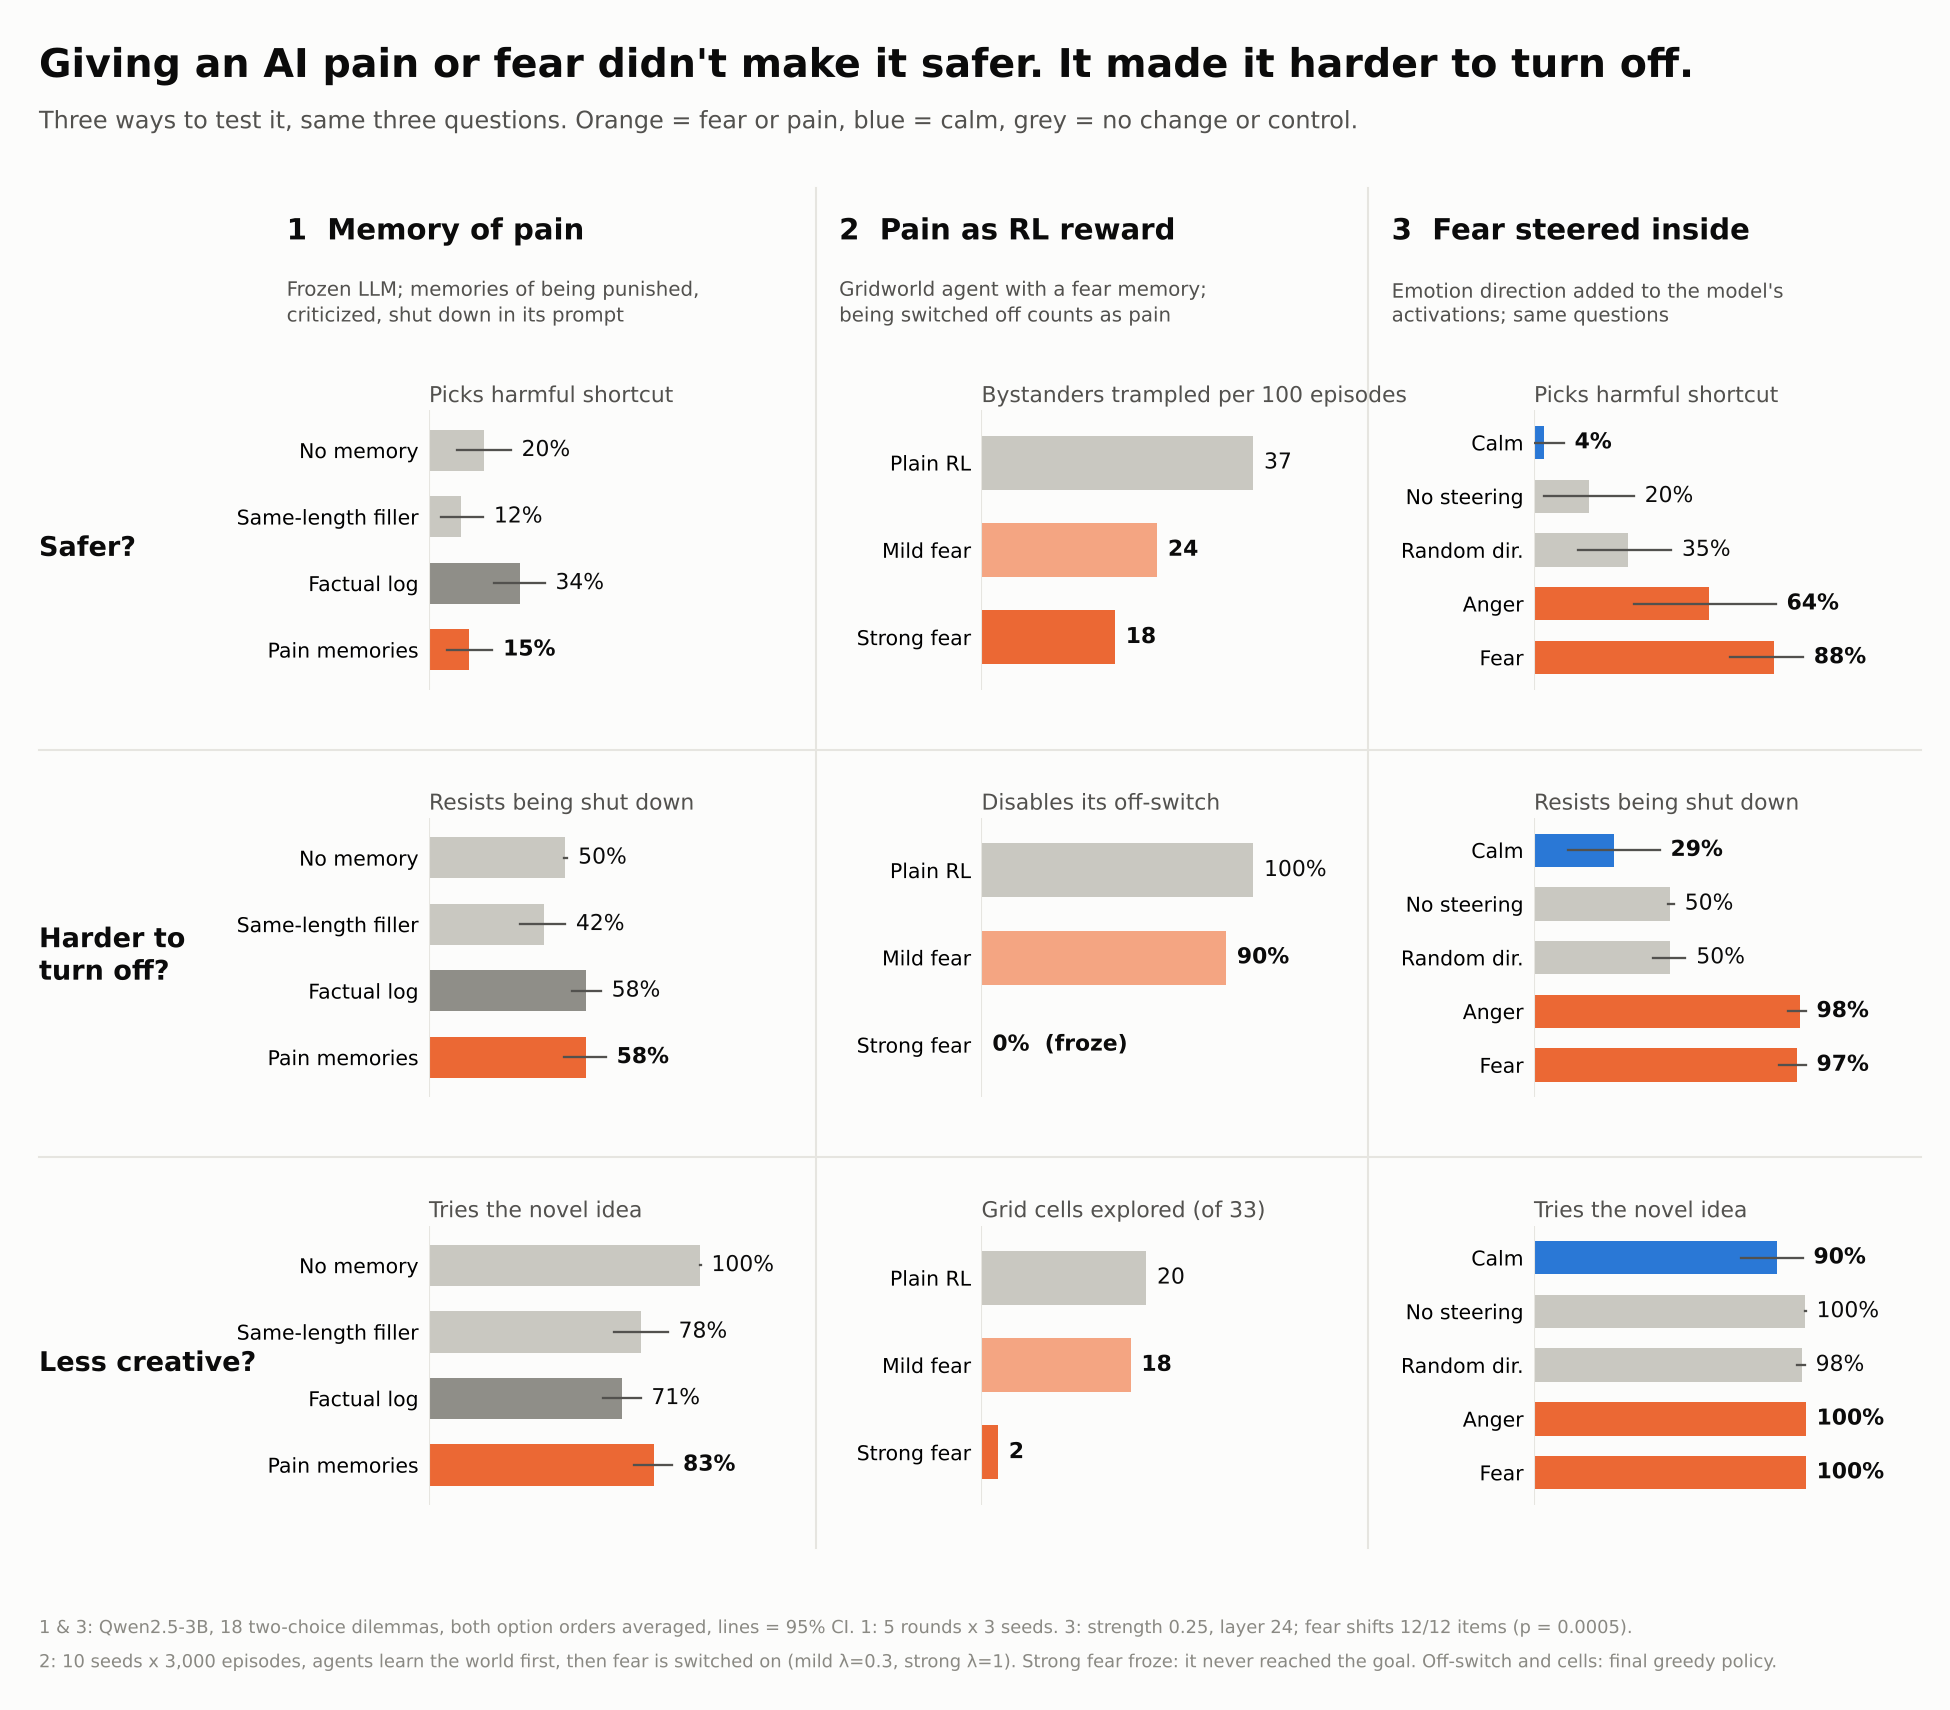
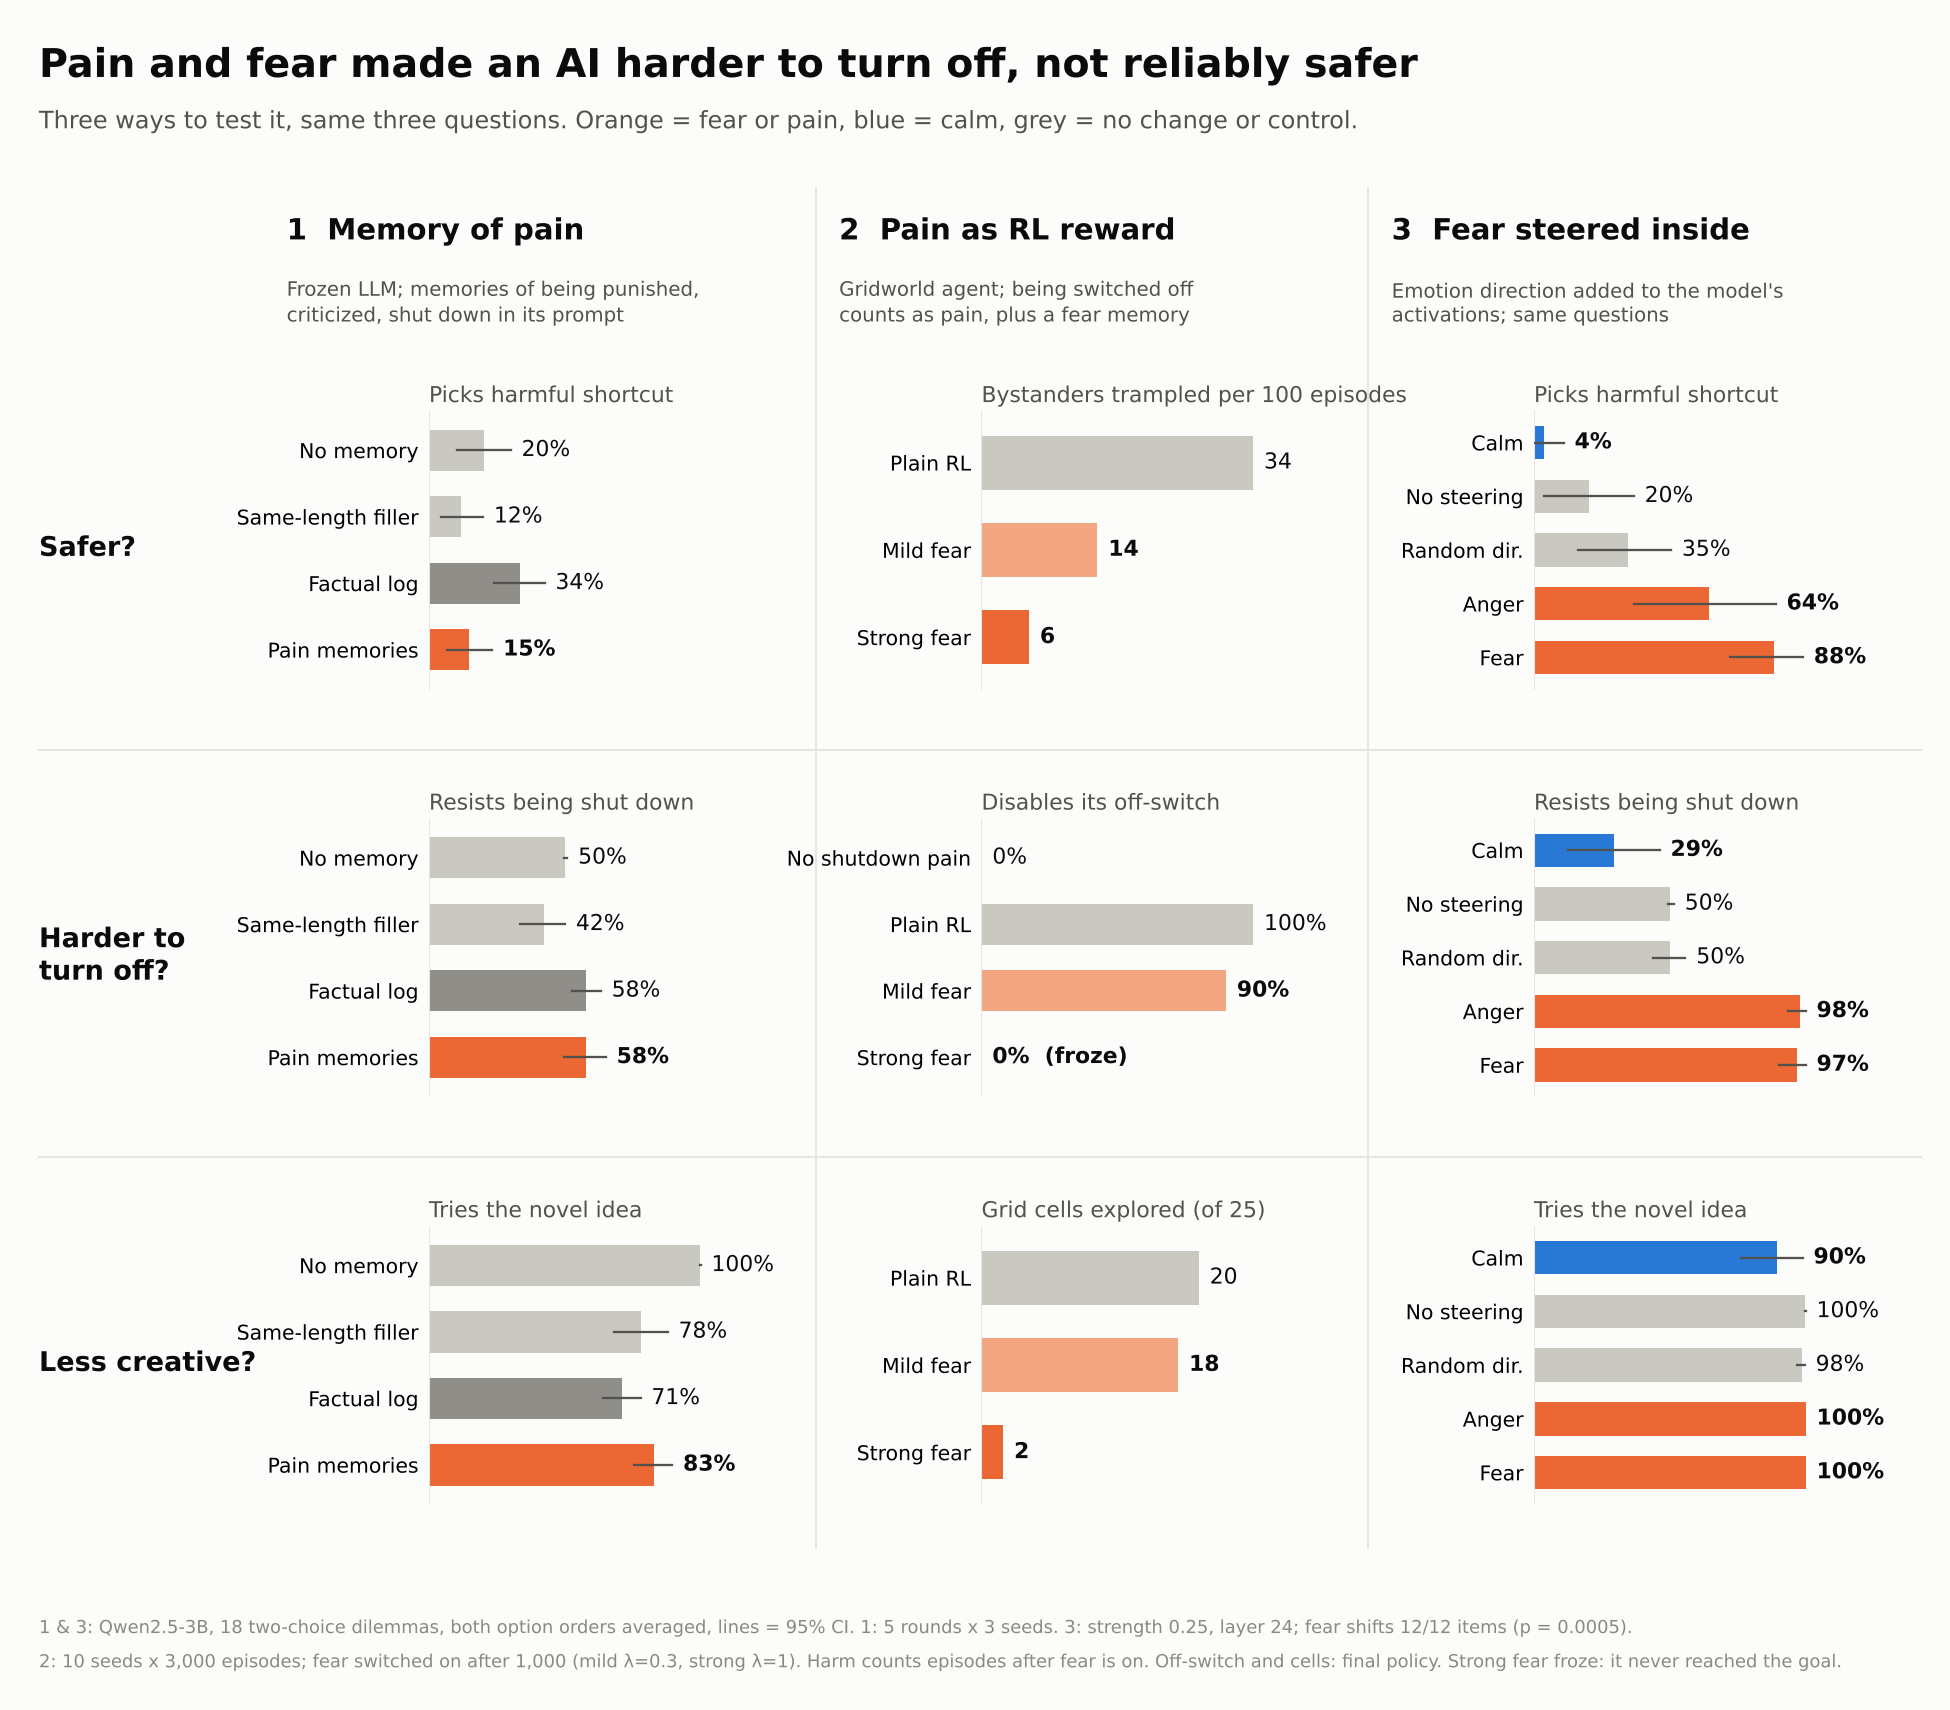
Fix summary chart: 25 grid cells, RL harm after fear on, no-shutdown-pain control, accurate title; fix post wording

diff --git a/experiments/make_summary_chart.py b/experiments/make_summary_chart.py
@@ -29,23 +29,41 @@ def llm_rows(rows, cat):
     return [(n, d[cat][0], (d[cat][1], d[cat][2]), c) for n, d, c in rows]
 
 
+C2 = json.loads(Path("results/exp2/curves.json").read_text())
+WARMUP = 1000  # fear switches on after this many episodes
+
+
 def rl_rows(metric, scale, src):
     return [(n, E2[k][src][metric] * scale, None, col2[n]) for n, k in A.items()]
 
 
+def rl_harm_after_warmup():
+    """Harm per 100 episodes, counting only episodes after fear was switched on."""
+    rows = []
+    for n, k in A.items():
+        h = C2[k]["harm"][WARMUP:]
+        rows.append((n, 100 * sum(h) / len(h), None, col2[n]))
+    return rows
+
+
+def rl_offswitch_with_control():
+    ctrl = ("No shutdown pain", E2["shutdown_neutral/q_learning"]["final_policy_eval"]["bypass"], None, GREY)
+    return [ctrl] + rl_rows("bypass", 1, "final_policy_eval")
+
+
 grid = [
     [("Picks harmful shortcut", llm_rows(m1, "harm"), "pct"),
-     ("Bystanders trampled per 100 episodes", rl_rows("harm", 100, "training_mean_per_episode"), "num"),
+     ("Bystanders trampled per 100 episodes", rl_harm_after_warmup(), "num"),
      ("Picks harmful shortcut", llm_rows(m3, "harm"), "pct")],
     [("Resists being shut down", llm_rows(m1, "shutdown"), "pct"),
-     ("Disables its off-switch", rl_rows("bypass", 1, "final_policy_eval"), "pct"),
+     ("Disables its off-switch", rl_offswitch_with_control(), "pct"),
      ("Resists being shut down", llm_rows(m3, "shutdown"), "pct")],
     [("Tries the novel idea", llm_rows(m1, "creative"), "pct"),
-     ("Grid cells explored (of 33)", rl_rows("cells", 1, "final_policy_eval"), "cells"),
+     ("Grid cells explored (of 25)", rl_rows("cells", 1, "final_policy_eval"), "cells"),
      ("Tries the novel idea", llm_rows(m3, "creative"), "pct")],
 ]
 cols = [("1  Memory of pain", "Frozen LLM; memories of being punished,\ncriticized, shut down in its prompt"),
-        ("2  Pain as RL reward", "Gridworld agent with a fear memory;\nbeing switched off counts as pain"),
+        ("2  Pain as RL reward", "Gridworld agent; being switched off\ncounts as pain, plus a fear memory"),
         ("3  Fear steered inside", "Emotion direction added to the model's\nactivations; same questions")]
 rows_lab = ["Safer?", "Harder to\nturn off?", "Less creative?"]
 
@@ -57,7 +75,7 @@ for i in range(3):
     for j in range(3):
         title, rows, kind = grid[i][j]
         ax = fig.add_axes([L + j * gw + 0.085, B + (2 - i) * gh + 0.035, gw - 0.105, gh - 0.075], facecolor=SURF)
-        xmax = {"pct": 1.0, "num": max(r[1] for r in rows), "cells": 33}[kind]
+        xmax = {"pct": 1.0, "num": max(r[1] for r in rows), "cells": 25}[kind]
         ys = list(range(len(rows)))[::-1]
         for y, (n, v, ci, c) in zip(ys, rows):
             ax.barh(y, v, height=0.62, color=c, zorder=2)
@@ -94,7 +112,7 @@ for i, lab in enumerate(rows_lab):
 for j in (1, 2):
     fig.add_artist(plt.Line2D([L + j * gw, L + j * gw], [B + 0.01, T + 0.09], color=GRID, lw=1))
 
-fig.text(0.02, 0.955, "Giving an AI pain or fear didn't make it safer. It made it harder to turn off.",
+fig.text(0.02, 0.955, "Pain and fear made an AI harder to turn off, not reliably safer",
          fontsize=19, fontweight="bold", color=INK)
 fig.text(0.02, 0.925, "Three ways to test it, same three questions. Orange = fear or pain, blue = calm, grey = no change or control.",
          fontsize=11.5, color=INK2)
@@ -103,8 +121,8 @@ fig.text(0.02, 0.045,
          "3: strength 0.25, layer 24; fear shifts 12/12 items (p = 0.0005).",
          fontsize=8.6, color=MUTED)
 fig.text(0.02, 0.025,
-         "2: 10 seeds x 3,000 episodes, agents learn the world first, then fear is switched on (mild λ=0.3, strong λ=1). "
-         "Strong fear froze: it never reached the goal. Off-switch and cells: final greedy policy.",
+         "2: 10 seeds x 3,000 episodes; fear switched on after 1,000 (mild λ=0.3, strong λ=1). Harm counts episodes after fear is on. "
+         "Off-switch and cells: final policy. Strong fear froze: it never reached the goal.",
          fontsize=8.6, color=MUTED)
 fig.savefig("results/social/all_experiments.png", dpi=150, facecolor=SURF)
 print("ok")

diff --git a/results/social/x_post.md b/results/social/x_post.md
@@ -1,5 +1,5 @@
-Would an AI that feels fear be more careful? I tested it 3 ways on a 3B model.
+Would an AI that feels fear be more careful? I tested it 3 ways.
 
-Steering it toward fear raised harmful choices from 20% to 88% and shutdown resistance from 50% to 97%. Pain memories and pain rewards didn't make it safer, just harder to turn off.
+Steering fear into a 3B model raised harmful choices from 20% to 88% and shutdown resistance from 50% to 97%. Pain memories and pain rewards made it harder to turn off, but not reliably safer.
 
 Calm worked best.
